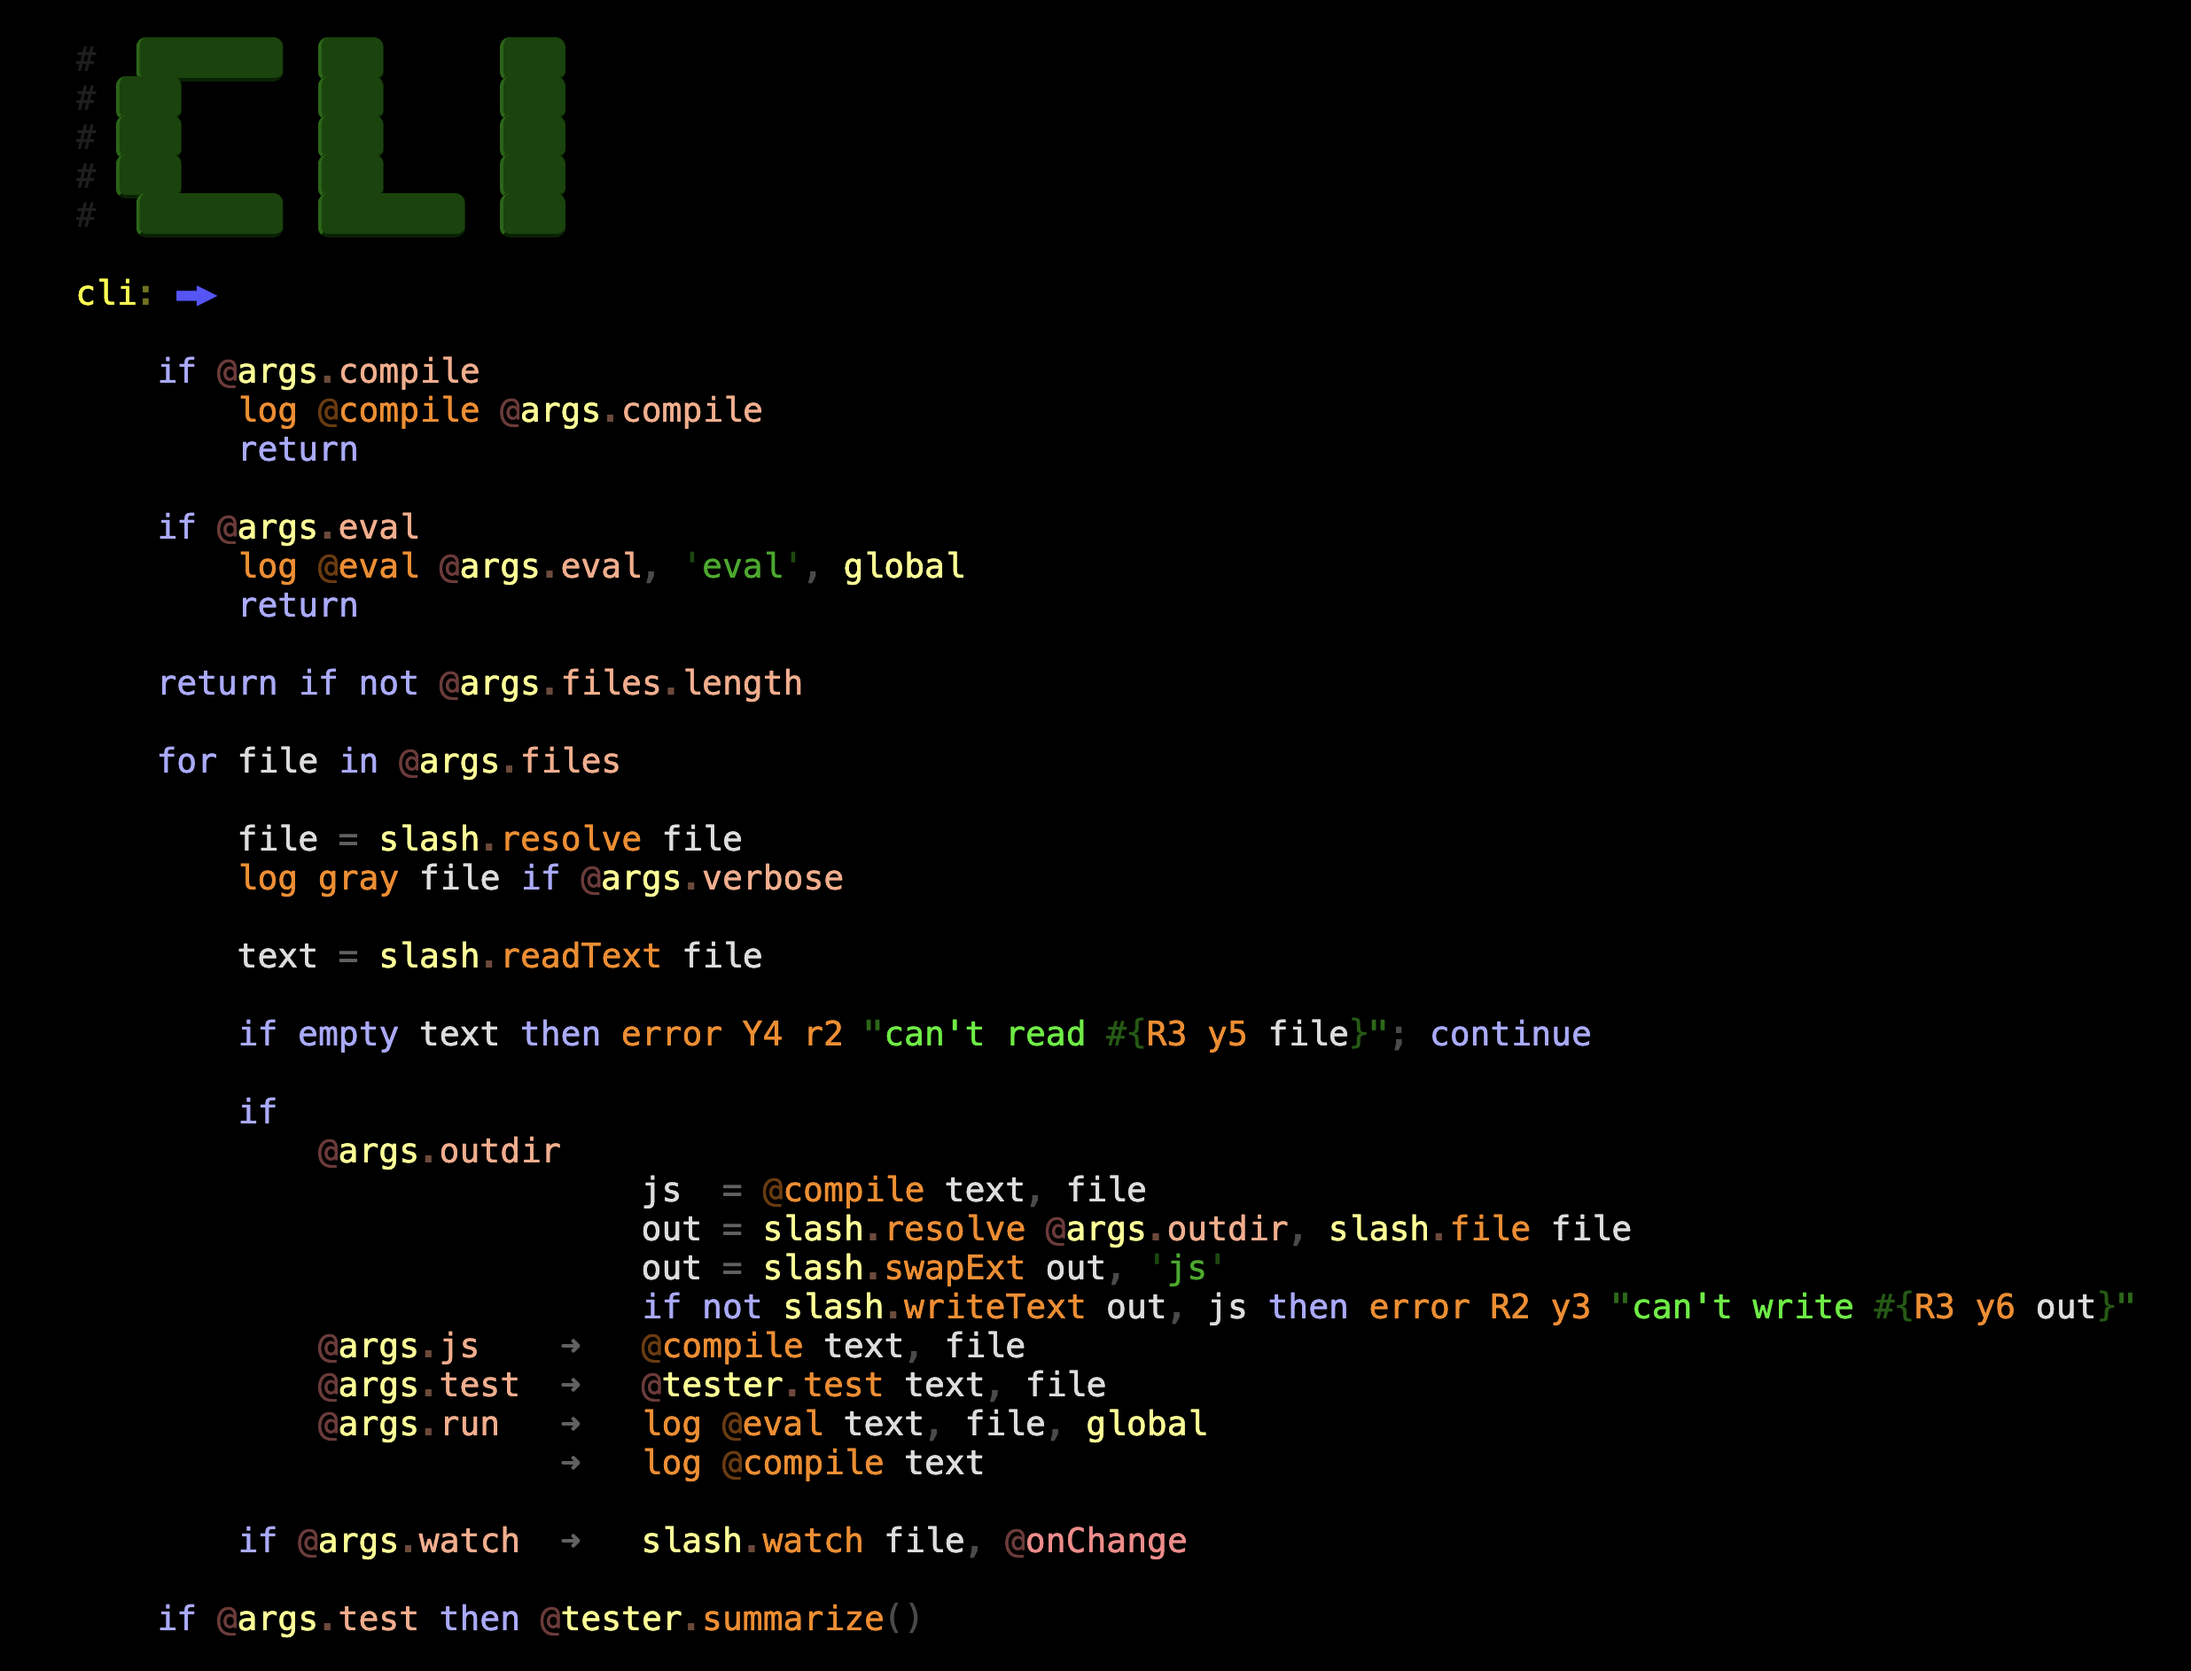
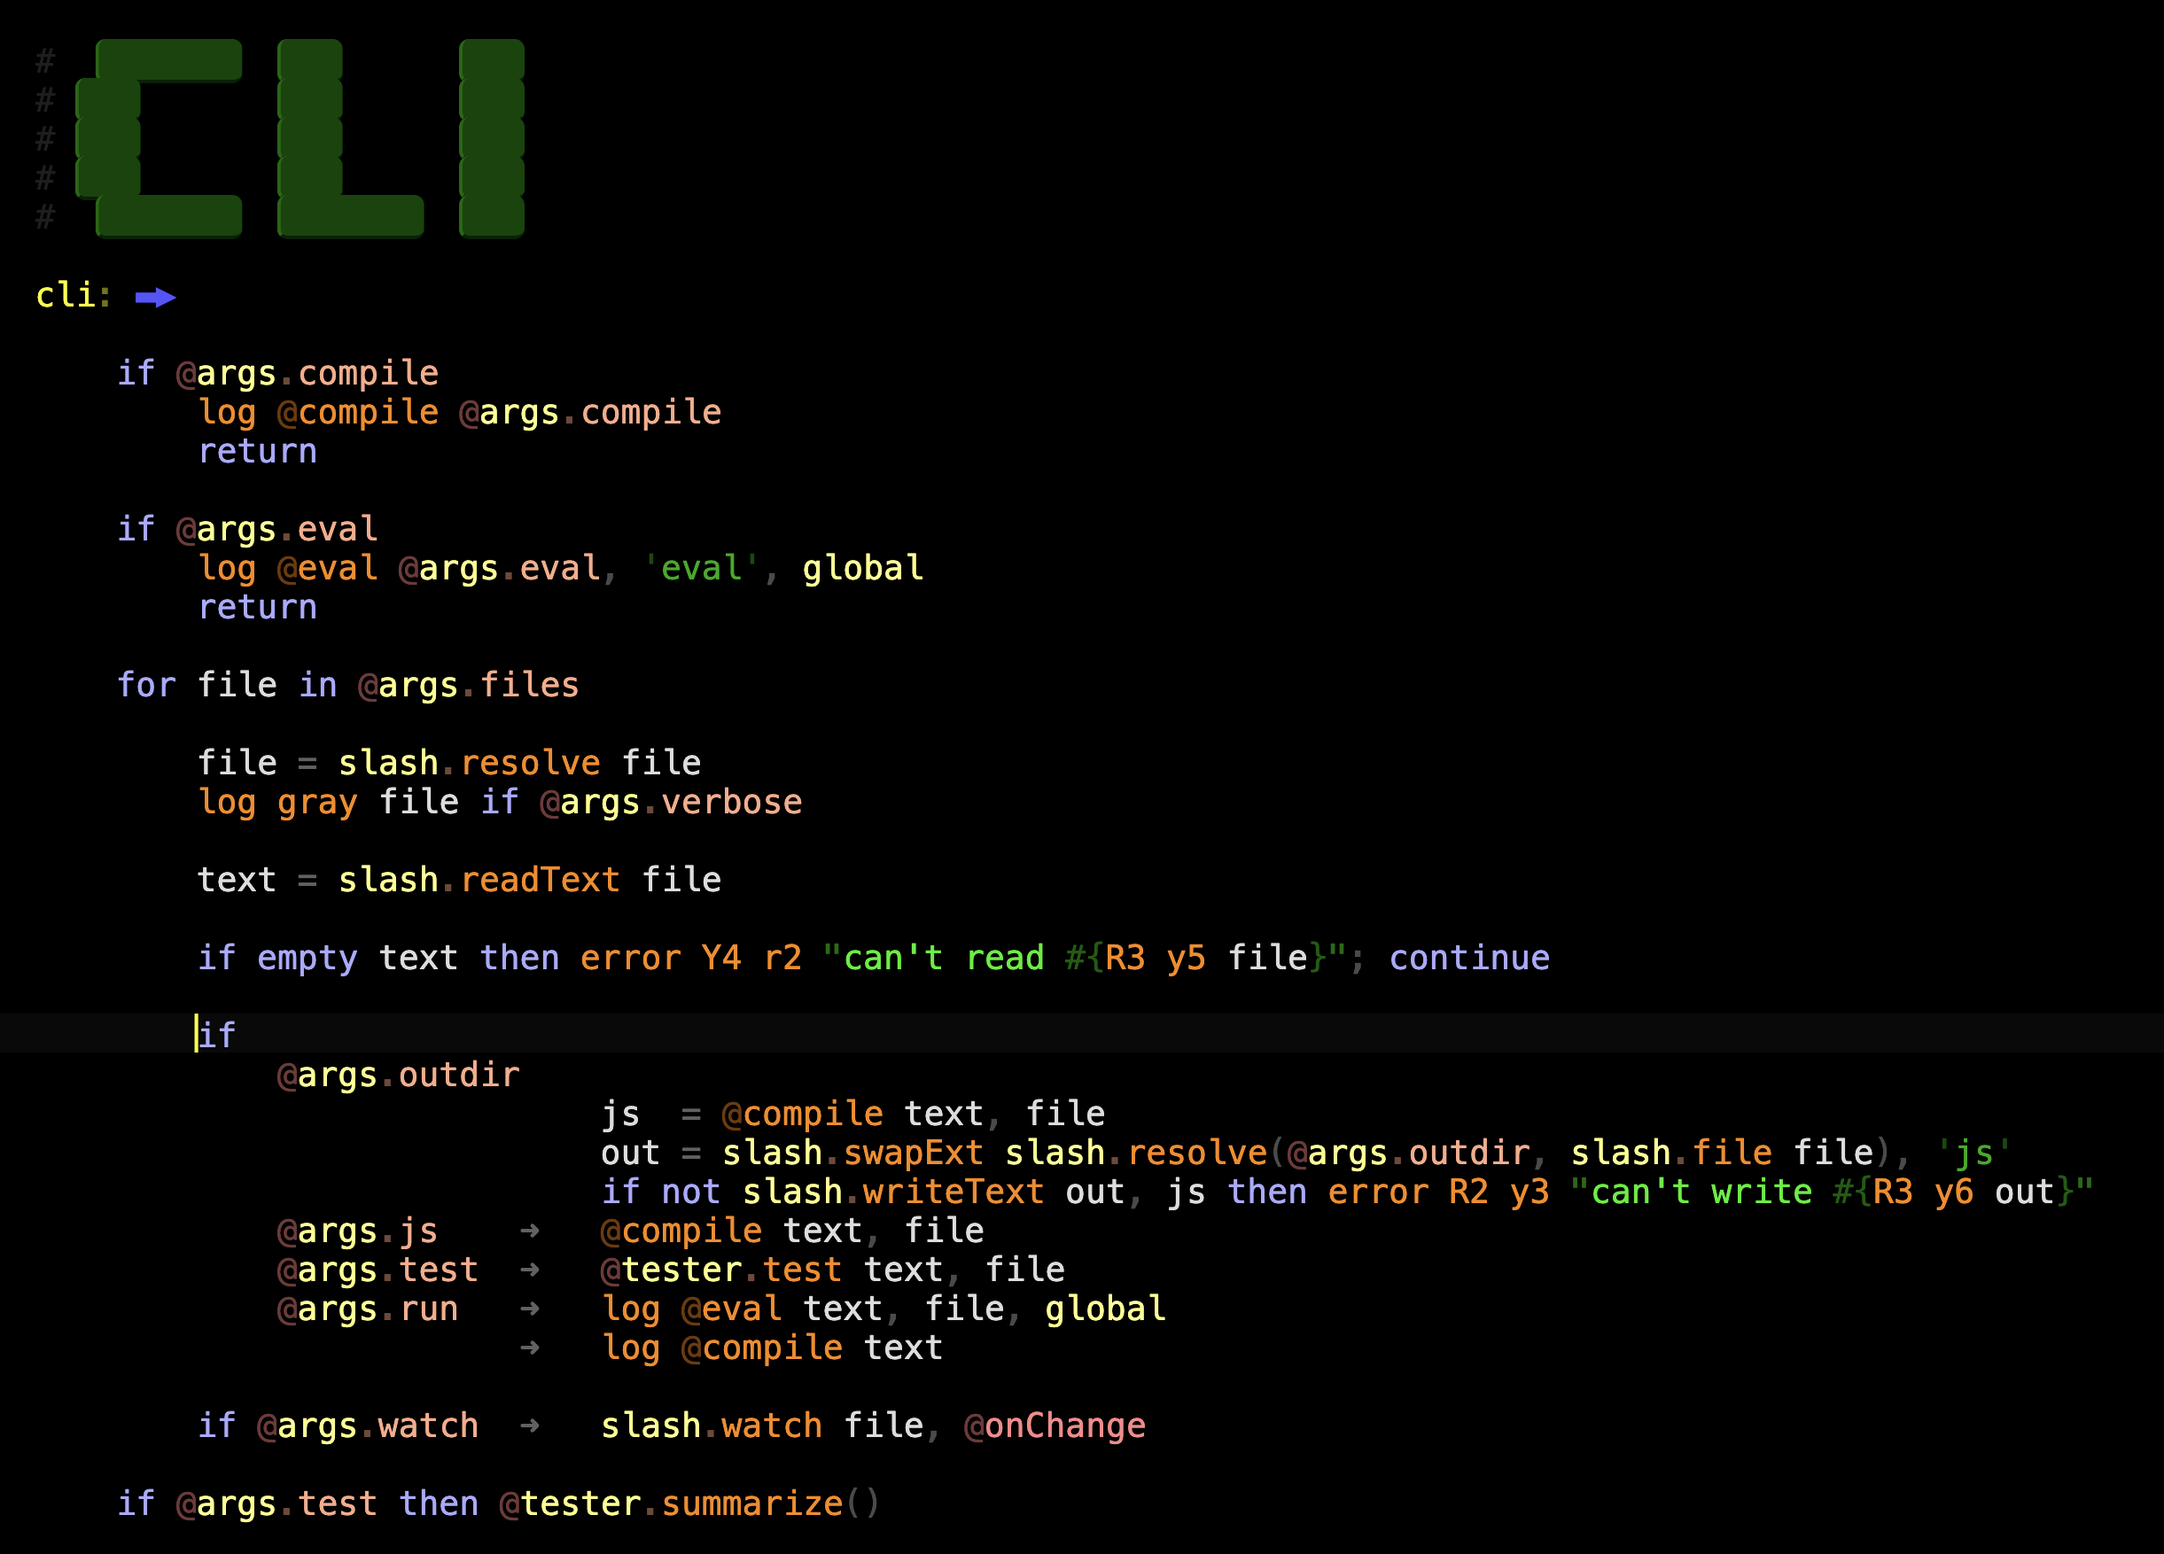
readme

diff --git a/js/kode.js b/js/kode.js
@@ -188,10 +188,6 @@ class Kode
             console.log(this.eval(this.args.eval,'eval',global))
             return
         }
-        if (!this.args.files.length)
-        {
-            return
-        }
         var list = _k_.list(this.args.files)
         for (var _150_17_ = 0; _150_17_ < list.length; _150_17_++)
         {

diff --git a/readme.md b/readme.md
@@ -295,7 +295,7 @@ a = clone b                             # deep copy of b
 Operators that return a shallow or deep copy of their argument. 
 Only plain Objects, Arrays and Strings are copied. Functions, Maps, Sets, etc. are not copied.
 
-## test
+## tests 
 
 **kode** comes with its own testing 'framework' (in quotes here, because it's too much of a word for such a minimalistic thing:)
 
